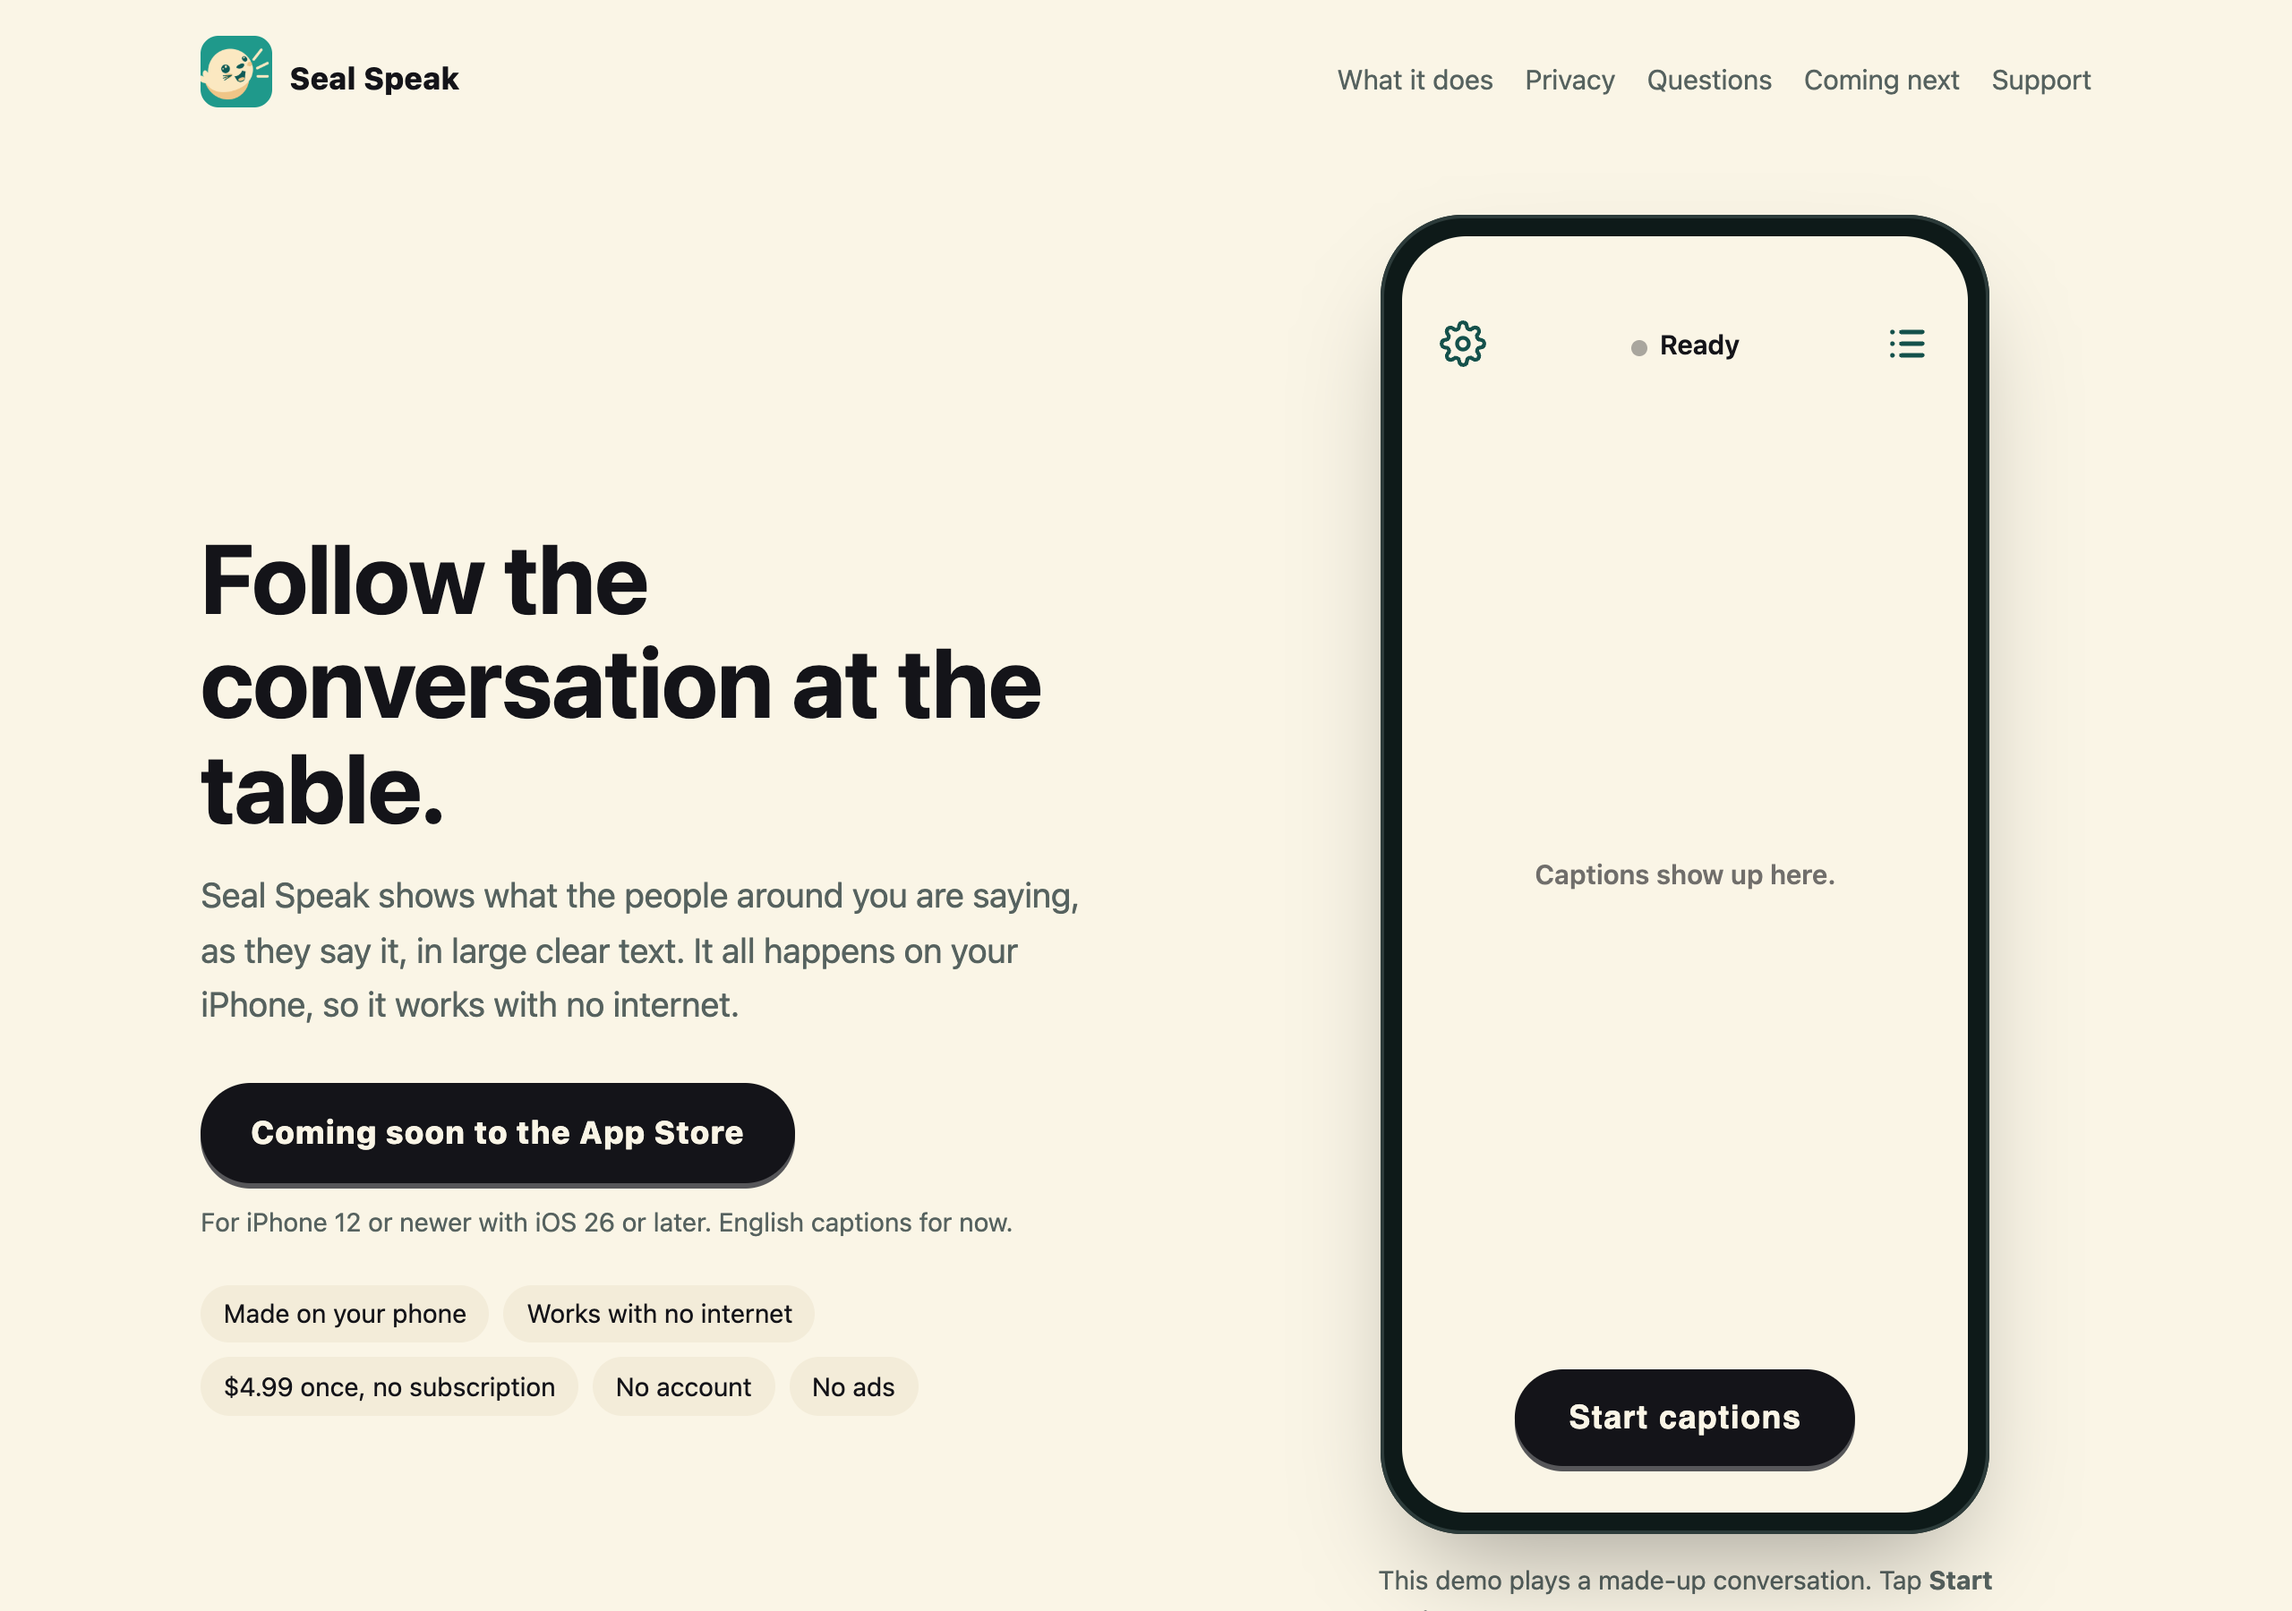
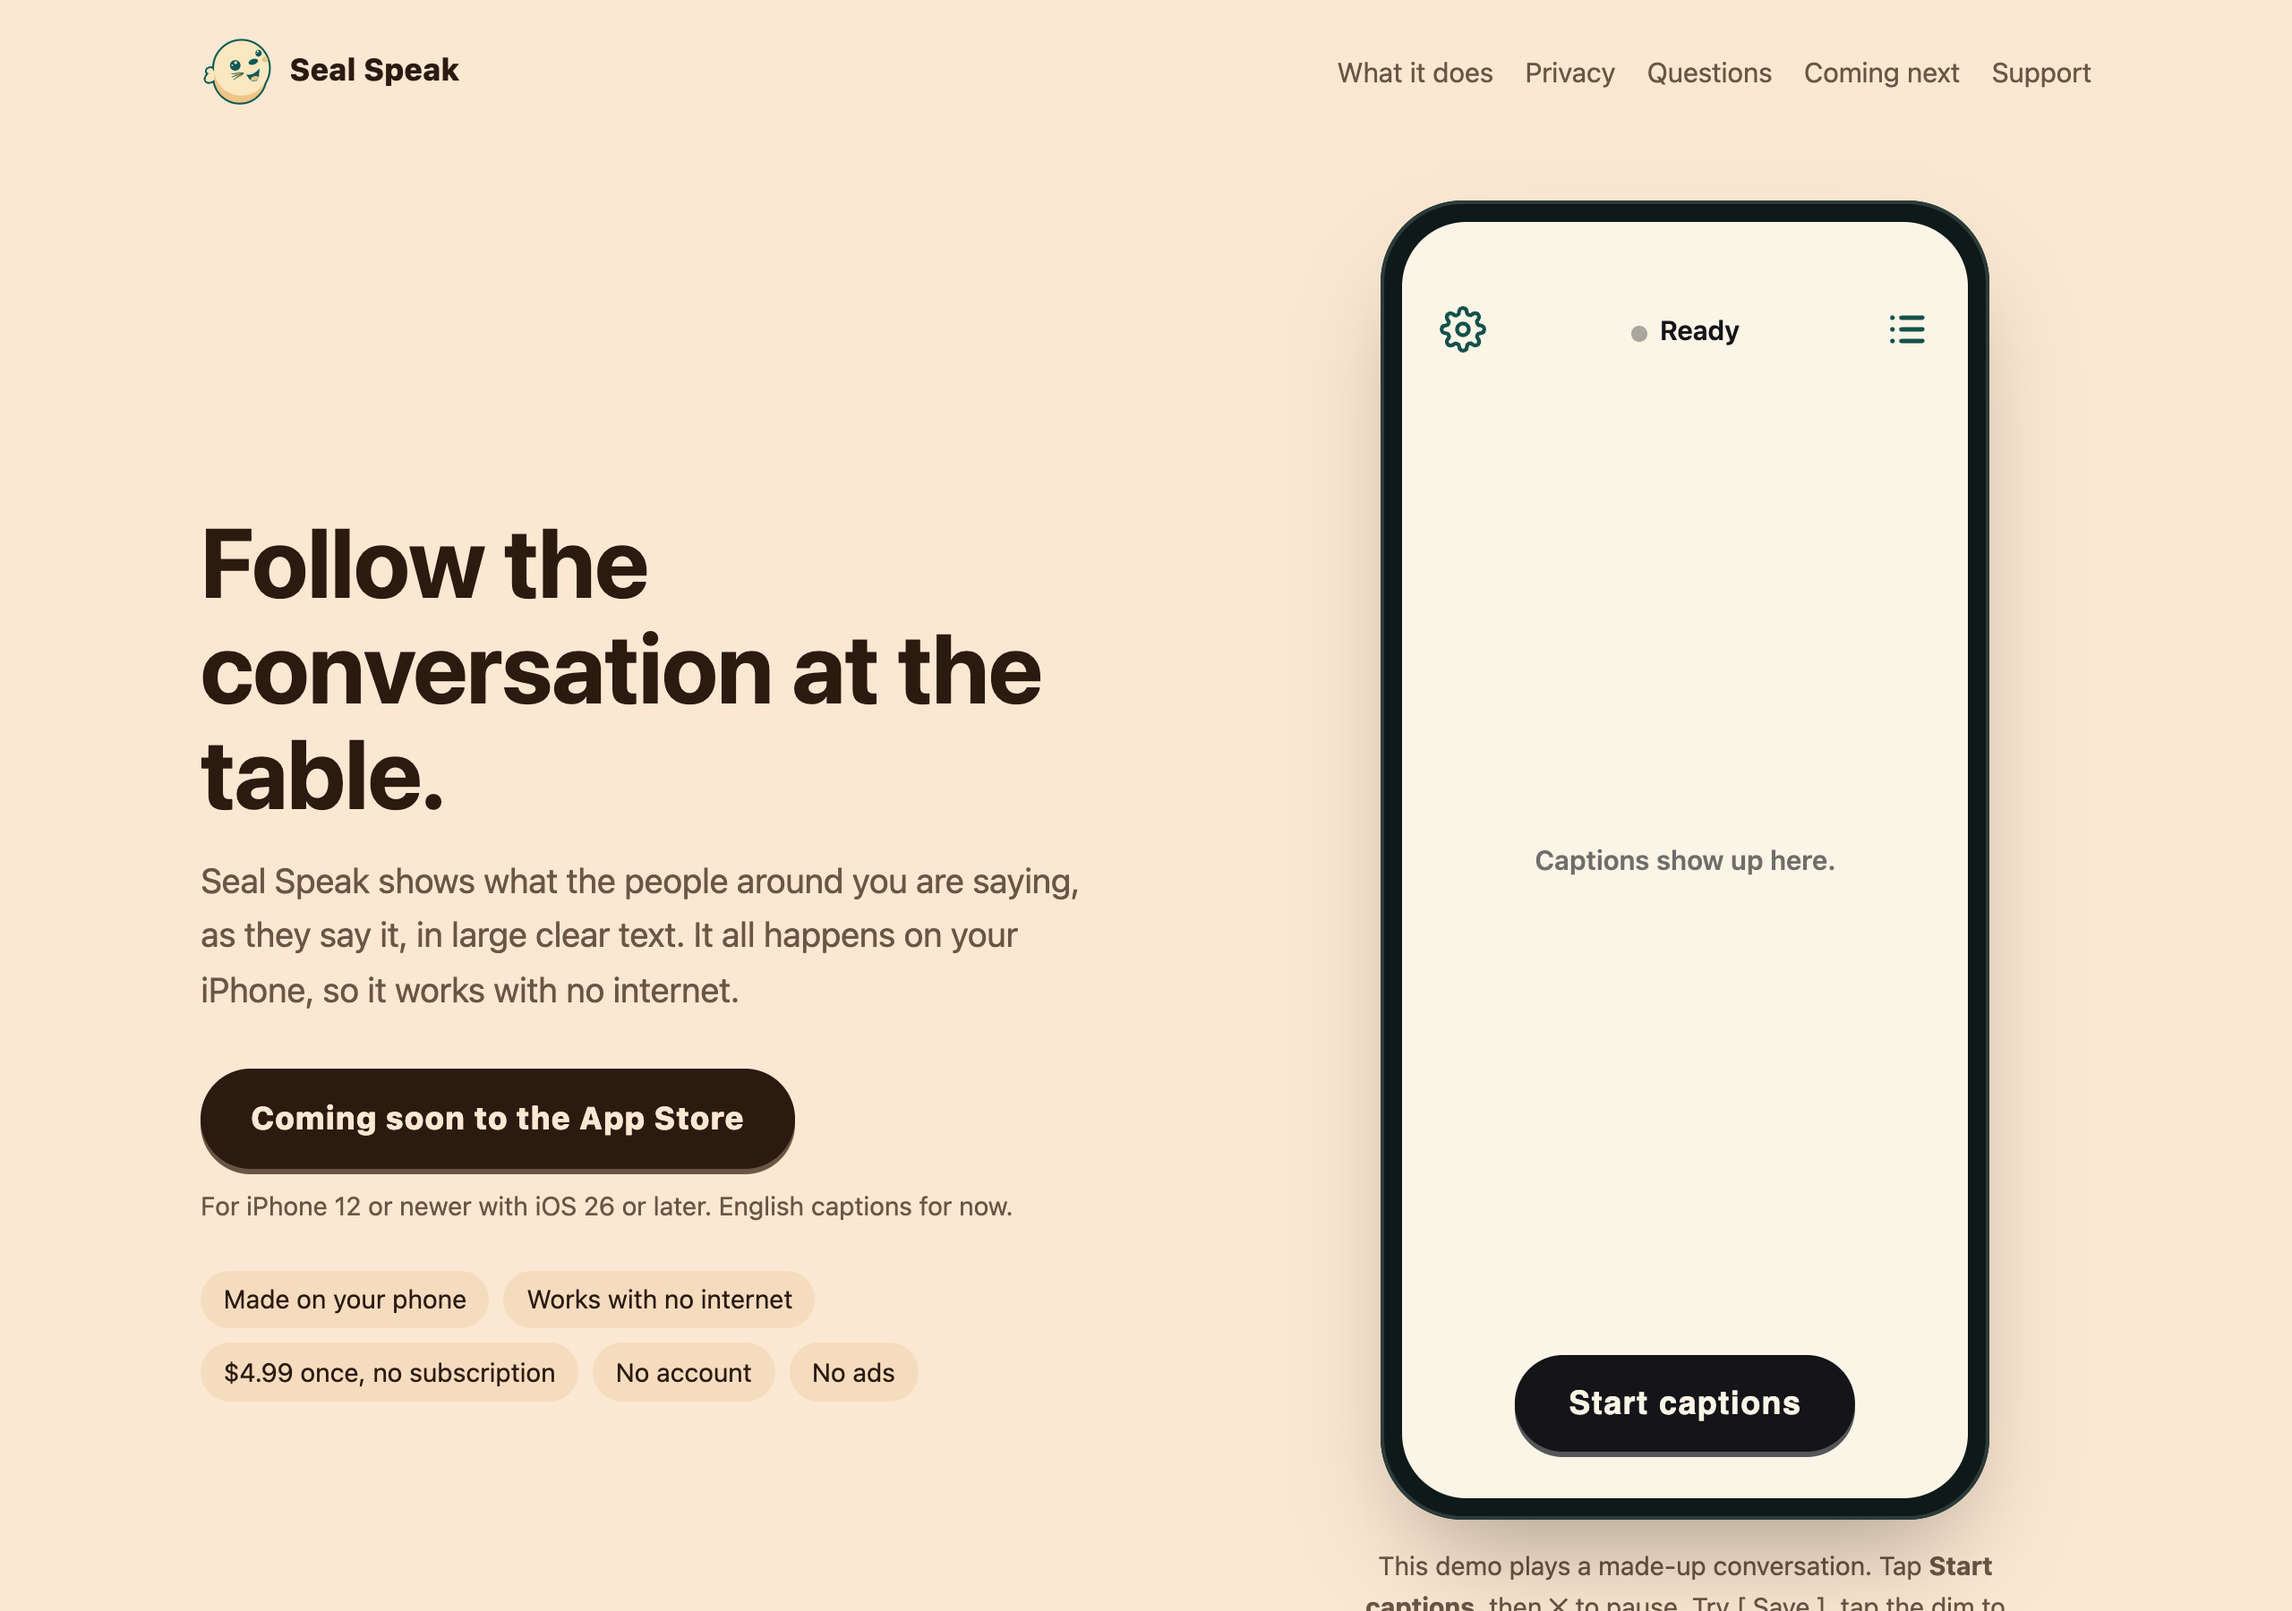
[W] Website: Peach in light, outlined seals everywhere (#142)
Owner's call after comparing Paper and Peach live: the light look is now
the app's Peach theme (bg, text and accent are Peach's own; muted, card and
rule derived), dark stays Harbor. The story band flips with it: deep teal
in light, seal cream in dark. Every seal on the site is the outlined seal
with no square tile (header logo, story, footer). Support and privacy pages
move from their old one-off colours to Peach and Harbor too. Screenshots
retaken; site and browser checks ok.

Claude-Session: https://claude.ai/code/session_01B5mqmpgsfXTXg8JohakC1C

diff --git a/site/index.html b/site/index.html
@@ -17,8 +17,9 @@
   @font-face { font-family: 'OpenDyslexic'; src: url('assets/fonts/OpenDyslexic-Bold.woff') format('woff'); font-weight: 700; font-display: swap; }
   @font-face { font-family: 'Atkinson Hyperlegible'; src: url('assets/fonts/AtkinsonHyperlegible-Regular.woff') format('woff'); font-weight: 400; font-display: swap; }
 
-  /* Page colours: the app's Paper theme in light, Harbor in dark (seal-data.js). */
-  :root { --bg: #FAF5E6; --text: #141419; --muted: #56625F; --accent: #14514B; --teal: #1F998B; --card: #F3ECD9; --rule: #E2D9C2; --lip: #565659; }
+  /* Page colours: the app's Peach theme in light, Harbor in dark (seal-data.js). bg, text and accent are the theme's own;
+     muted, card and rule are derived from it. */
+  :root { --bg: #FBE8D2; --text: #2B1A10; --muted: #6B5545; --accent: #6E2E0A; --teal: #1F998B; --card: #F6DCBF; --rule: #EDCFAF; --lip: #6B5545; }
   @media (prefers-color-scheme: dark) {
     :root { --bg: #173331; --text: #ECE4D3; --muted: #B9B3A6; --accent: #A3E3D9; --teal: #4FB3A9; --card: #1E3D3B; --rule: #2C4B48; --lip: #a9a498; }
   }
@@ -35,7 +36,7 @@
   .sr-only { position: absolute; width: 1px; height: 1px; overflow: hidden; clip: rect(0 0 0 0); white-space: nowrap; }
 
   header.top { display: flex; align-items: center; gap: .6rem; padding: 1.25rem 0; }
-  header.top img { width: 40px; height: 40px; border-radius: 10px; }
+  header.top img { width: 40px; height: 40px; }
   header.top .name { font-weight: 800; letter-spacing: .02em; }
   header.top nav { margin-left: auto; display: flex; gap: 1.1rem; font-size: .95rem; }
   header.top nav a { color: var(--muted); text-decoration: none; }
@@ -185,24 +186,28 @@
   .mascot { width: 96px; height: auto; display: block; margin-bottom: .5rem; }
 
   /* ── story (#142): a warm cream band of its own, the seal's colours, in light and dark ── */
-  section.band.story { background: #FBE8C1; color: #141419; border-top: 0; }
+  /* Light (Peach): the seal's deep teal, like its app icon. Dark (Harbor): the seal's cream. */
+  section.band.story { background: #0E5A56; color: #FBF3E4; border-top: 0; }
   .story-wrap { text-align: center; max-width: 44rem; }
   .story-seal { width: 120px; height: auto; display: block; margin: 0 auto 1rem; }
   .story p { margin: 0 auto 1rem; max-width: 36rem; }
-  .story-lead { font-size: clamp(1.4rem, 2.8vw, 1.9rem); line-height: 1.3; font-weight: 700; color: #0E5A56; }
+  .story-lead { font-size: clamp(1.4rem, 2.8vw, 1.9rem); line-height: 1.3; font-weight: 700; color: #FBE8C1; }
   .story-sign { font-weight: 700; margin-top: 1.4rem !important; }
-  .story-sign span { display: block; font-weight: 400; font-size: .9rem; color: #56625F; }
-  .story a { color: #0E5A56; }
+  .story-sign span { display: block; font-weight: 400; font-size: .9rem; color: #D6EAE6; }
+  .story a { color: #FBE8C1; }
+  @media (prefers-color-scheme: dark) {
+    section.band.story { background: #FBE8C1; color: #141419; }
+    .story-lead, .story a { color: #0E5A56; }
+    .story-sign span { color: #56625F; }
+  }
+
 </style>
 </head>
 <body>
 <a class="skip" href="#main">Skip to content</a>
 <div class="wrap">
   <header class="top">
-    <picture>
-      <source srcset="assets/seal-icon-256-dark.png" media="(prefers-color-scheme: dark)">
-      <img src="assets/seal-icon-256.png" alt="" width="40" height="40">
-    </picture>
+    <img src="assets/favicon.svg" alt="" width="40" height="40">
     <span class="name">Seal Speak</span>
     <nav aria-label="On this page">
       <a href="#how">What it does</a>
@@ -494,7 +499,7 @@
 
 <footer>
   <div class="wrap">
-    <img class="mascot" src="assets/seal.svg" alt="" width="96" height="96">
+    <img class="mascot" src="assets/favicon.svg" alt="" width="96" height="96">
     <nav aria-label="Footer">
       <a href="support.html">Support</a>
       <a href="privacy.html">Privacy policy</a>

diff --git a/site/privacy.html b/site/privacy.html
@@ -8,9 +8,9 @@
 <link rel="icon" href="assets/favicon-64.png" type="image/png" sizes="64x64">
 <meta name="description" content="Seal shows live captions on your device. It collects nothing and sends nothing anywhere.">
 <style>
-  :root { --bg: #fbf7f0; --text: #12302f; --muted: #46605e; --accent: #1f6f6b; --rule: #d9d2c5; }
+  :root { --bg: #FBE8D2; --text: #2B1A10; --muted: #6B5545; --accent: #6E2E0A; --rule: #EDCFAF; }  /* Peach, like the home page */
   @media (prefers-color-scheme: dark) {
-    :root { --bg: #0f1c1c; --text: #eef3f1; --muted: #a9bdb9; --accent: #7fd1c9; --rule: #2a3d3c; }
+    :root { --bg: #173331; --text: #ECE4D3; --muted: #B9B3A6; --accent: #A3E3D9; --rule: #2C4B48; }  /* Harbor */
   }
   html { -webkit-text-size-adjust: 100%; }
   body { margin: 0; background: var(--bg); color: var(--text);

diff --git a/site/support.html b/site/support.html
@@ -8,9 +8,9 @@
 <link rel="icon" href="assets/favicon-64.png" type="image/png" sizes="64x64">
 <meta name="description" content="Help and answers for Seal, live captions for conversations, on your device.">
 <style>
-  :root { --bg: #fbf7f0; --text: #12302f; --muted: #46605e; --accent: #1f6f6b; --rule: #d9d2c5; }
+  :root { --bg: #FBE8D2; --text: #2B1A10; --muted: #6B5545; --accent: #6E2E0A; --rule: #EDCFAF; }  /* Peach, like the home page */
   @media (prefers-color-scheme: dark) {
-    :root { --bg: #0f1c1c; --text: #eef3f1; --muted: #a9bdb9; --accent: #7fd1c9; --rule: #2a3d3c; }
+    :root { --bg: #173331; --text: #ECE4D3; --muted: #B9B3A6; --accent: #A3E3D9; --rule: #2C4B48; }  /* Harbor */
   }
   html { -webkit-text-size-adjust: 100%; }
   body { margin: 0; background: var(--bg); color: var(--text);
